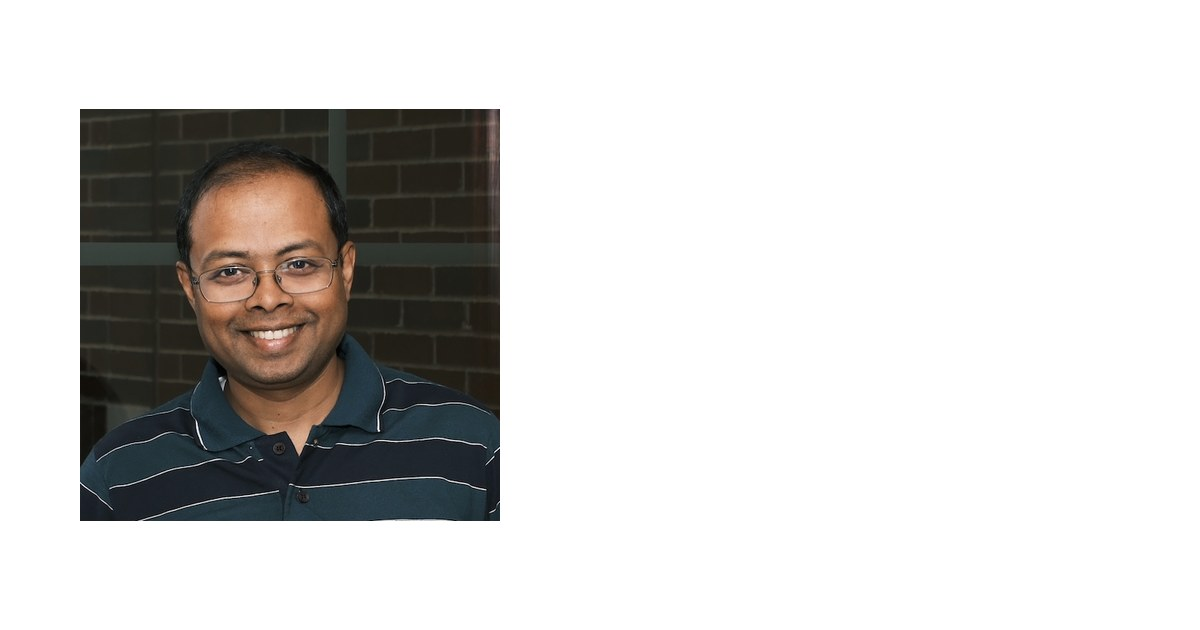
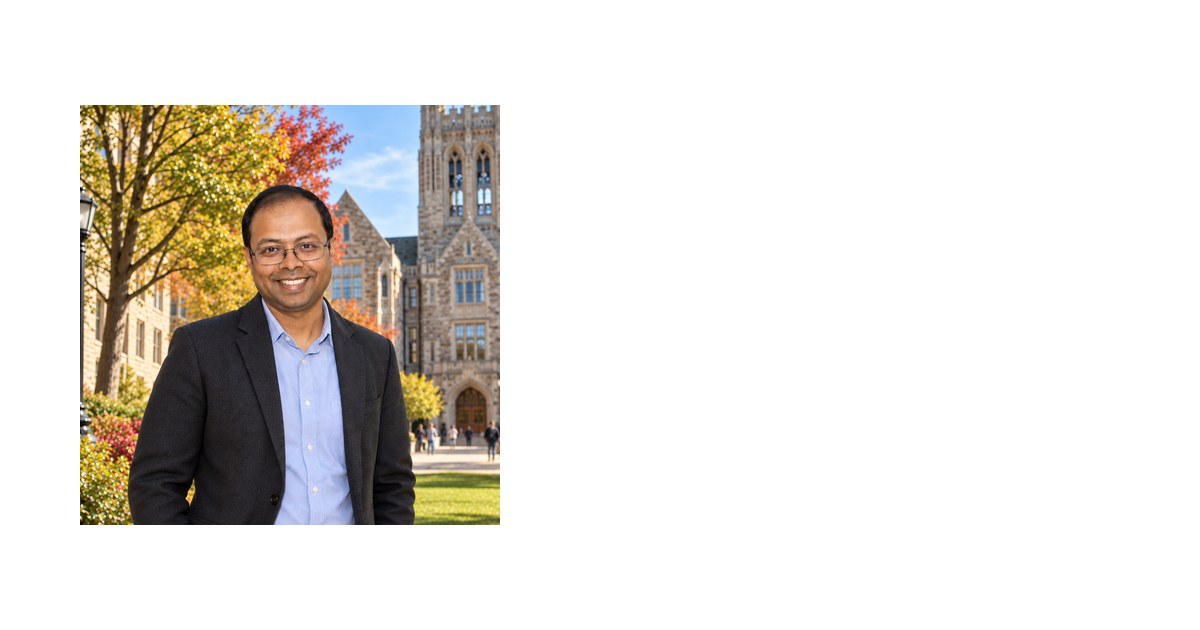
Replace headshot with new campus photo

Changed region(s): [[0.0617, 0.1508, 0.4317, 0.8444]]

diff --git a/index.html b/index.html
@@ -10,7 +10,7 @@ description: "Pallab Ghosh is an Associate Professor of Economics at the Univers
 {% assign npubs = published | size | plus: commentary.size %}
 <section class="hero">
   <div class="hero-photo">
-    <img src="{{ site.author.photo | relative_url }}" alt="Portrait of Pallab Ghosh" width="548" height="538" fetchpriority="high">
+    <img src="{{ site.author.photo | relative_url }}" alt="Portrait of Pallab Ghosh" width="800" height="800" fetchpriority="high">
   </div>
   <div class="hero-text">
     <h1>{{ site.author.name }}</h1>
